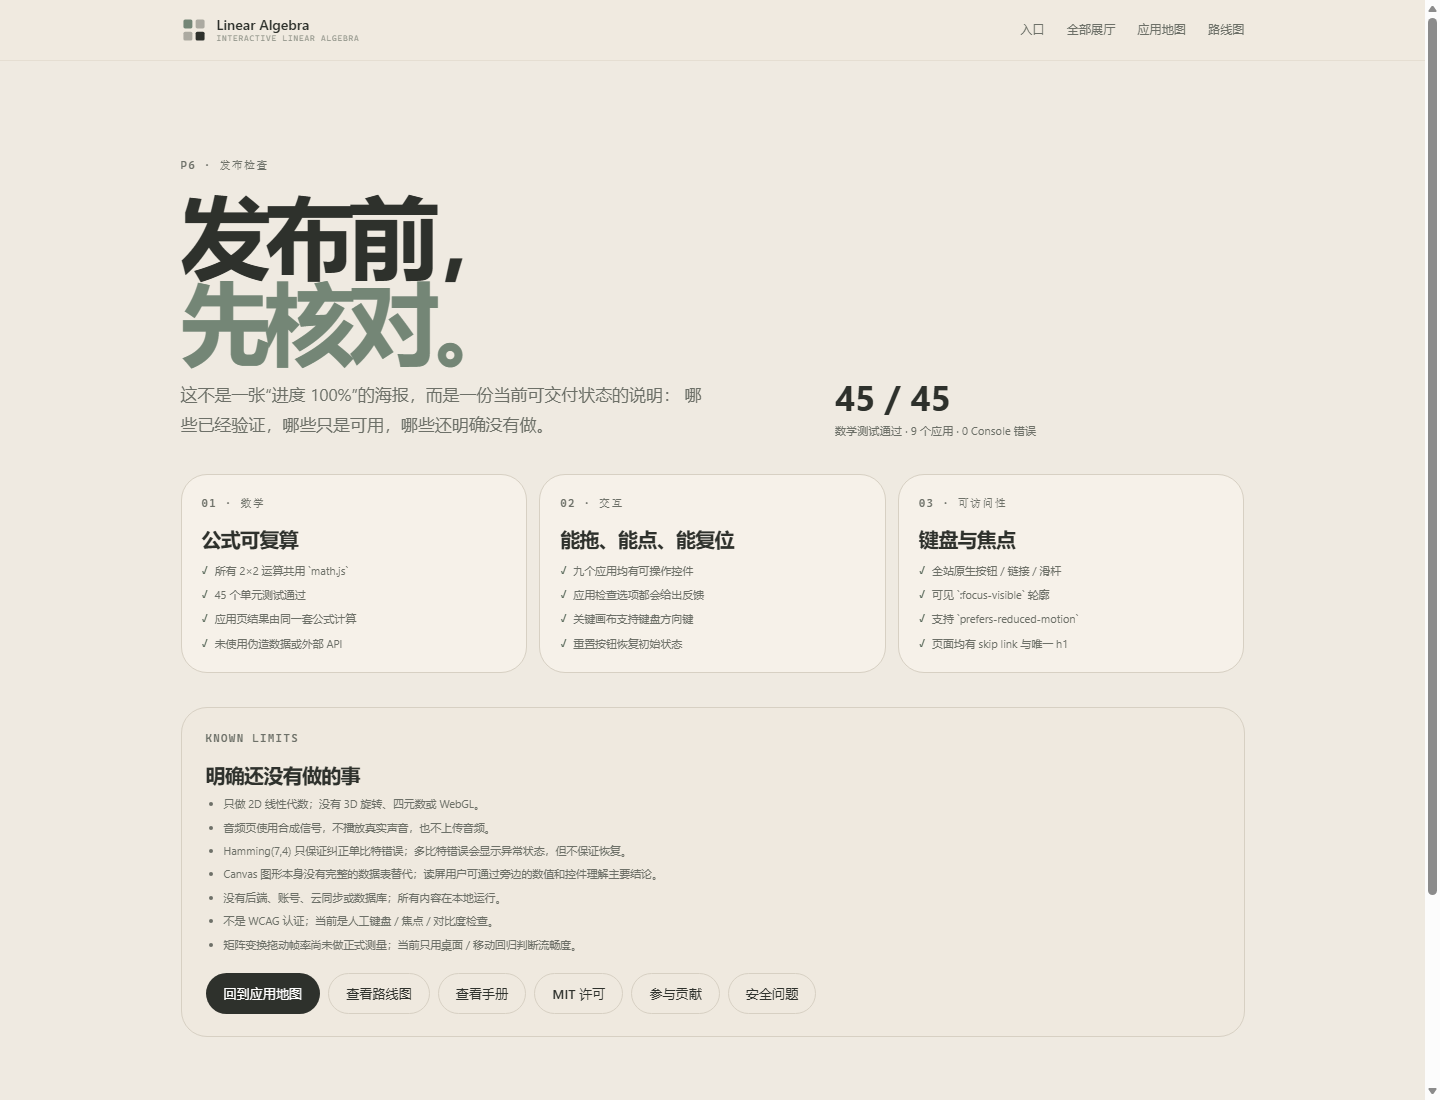
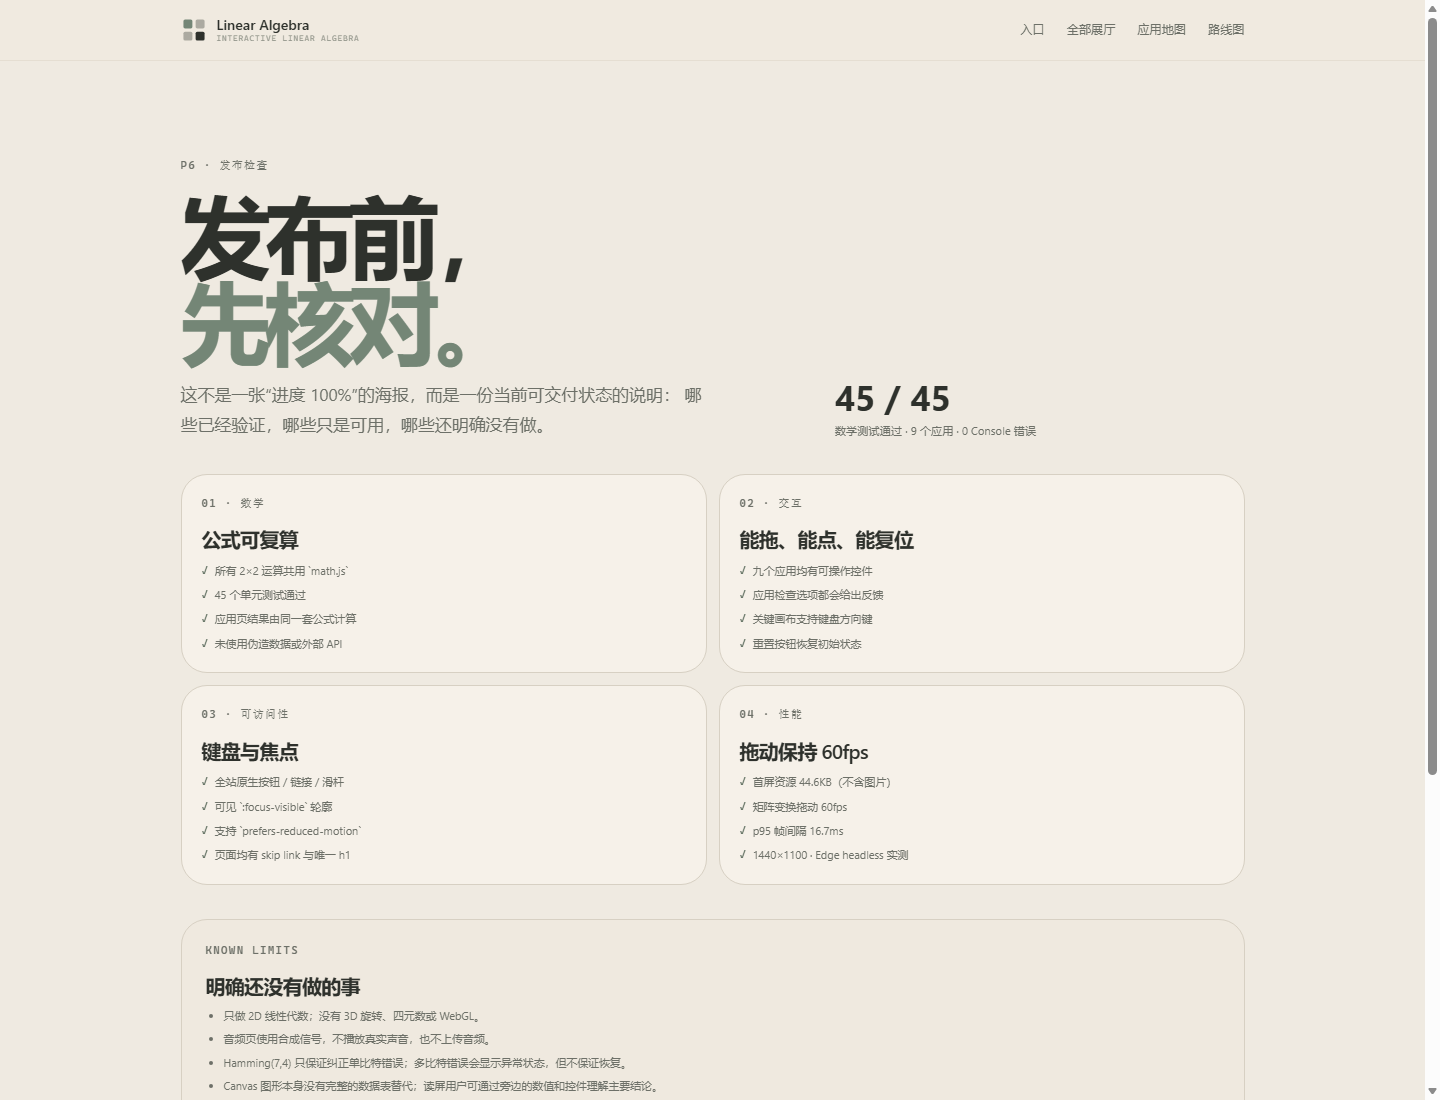
perf: measure entry weight and transform drag

diff --git a/tests/perf-check.js b/tests/perf-check.js
@@ -1,0 +1,177 @@
+'use strict';
+const PORT = Number(process.env.CDP_PORT || 9310);
+const BASE = process.env.PREVIEW_URL || 'http://127.0.0.1:4173';
+const sleep = (ms) => new Promise((r) => setTimeout(r, ms));
+
+async function main() {
+  const targets = await (await fetch(`http://127.0.0.1:${PORT}/json/list`)).json();
+  const page = targets.find((t) => t.type === 'page');
+  const ws = new WebSocket(page.webSocketDebuggerUrl);
+  await new Promise((resolve, reject) => {
+    ws.addEventListener('open', resolve, { once: true });
+    ws.addEventListener('error', reject, { once: true });
+  });
+  let id = 0;
+  const pending = new Map();
+  ws.addEventListener('message', (event) => {
+    const msg = JSON.parse(event.data);
+    if (msg.id && pending.has(msg.id)) {
+      const p = pending.get(msg.id);
+      pending.delete(msg.id);
+      if (msg.error) p.reject(new Error(msg.error.message));
+      else p.resolve(msg.result);
+    }
+  });
+  function send(method, params = {}) {
+    const mid = ++id;
+    return new Promise((resolve, reject) => {
+      pending.set(mid, { resolve, reject });
+      ws.send(JSON.stringify({ id: mid, method, params }));
+    });
+  }
+  async function evaluate(expression) {
+    const result = await send('Runtime.evaluate', { expression, returnByValue: true, awaitPromise: true });
+    if (result.exceptionDetails) throw new Error(result.exceptionDetails.text);
+    return result.result.value;
+  }
+  async function navigate(rel) {
+    const loaded = new Promise((resolve) => {
+      const timer = setTimeout(resolve, 10000);
+      const handler = (event) => {
+        const msg = JSON.parse(event.data);
+        if (msg.method === 'Page.loadEventFired') {
+          clearTimeout(timer);
+          ws.removeEventListener('message', handler);
+          resolve();
+        }
+      };
+      ws.addEventListener('message', handler);
+    });
+    await send('Page.navigate', { url: `${BASE}/${rel}` });
+    await loaded;
+    await sleep(900);
+  }
+
+  await send('Page.enable');
+  await send('Runtime.enable');
+  await send('Emulation.setDeviceMetricsOverride', { width: 1440, height: 1100, deviceScaleFactor: 1, mobile: false });
+
+  // 1. Entry first-screen weight, excluding images.
+  await navigate('index.html');
+  const size = await evaluate(`(() => {
+    const nav = performance.getEntriesByType('navigation')[0] || {};
+    const resources = performance.getEntriesByType('resource').filter((r) => {
+      const name = (r.name || '').split('?')[0].toLowerCase();
+      return !/\\.(png|jpg|jpeg|webp|gif|svg|ico)$/.test(name) && r.initiatorType !== 'img';
+    });
+    const rows = resources.map((r) => ({
+      name: r.name.replace(location.origin + '/', ''),
+      transfer: r.transferSize || 0,
+      encoded: r.encodedBodySize || 0,
+      decoded: r.decodedBodySize || 0
+    }));
+    const totalTransfer = (nav.transferSize || 0) + rows.reduce((sum, r) => sum + r.transfer, 0);
+    const totalEncoded = (nav.encodedBodySize || 0) + rows.reduce((sum, r) => sum + r.encoded, 0);
+    const totalDecoded = (nav.decodedBodySize || 0) + rows.reduce((sum, r) => sum + r.decoded, 0);
+    return {
+      transferBytes: totalTransfer,
+      encodedBytes: totalEncoded,
+      decodedBytes: totalDecoded,
+      resources: rows.sort((a, b) => b.transfer - a.transfer).slice(0, 12)
+    };
+  })()`);
+
+  // 2. Transform drag: rAF cadence while dragging the e1 handle.
+  await navigate('pages/01-transform.html');
+  const geometry = await evaluate(`(() => {
+    const canvas = document.getElementById('transform-canvas');
+    const rect = canvas.getBoundingClientRect();
+    const pad = Math.min(34, Math.min(rect.width, rect.height) * 0.09);
+    const usable = Math.max(1, Math.min(rect.width, rect.height) - pad * 2);
+    const scale = usable / 8.8;
+    return {
+      left: rect.left,
+      top: rect.top,
+      width: rect.width,
+      height: rect.height,
+      x: rect.left + rect.width / 2 + scale,
+      y: rect.top + rect.height / 2,
+      beforeA: document.getElementById('matrix-a').value,
+      beforeC: document.getElementById('matrix-c').value
+    };
+  })()`);
+
+  await evaluate(`window.__perf = new Promise((resolve) => {
+    const stamps = [];
+    const start = performance.now();
+    function tick(now) {
+      stamps.push(now);
+      if (now - start < 1800) {
+        requestAnimationFrame(tick);
+      } else {
+        const gaps = stamps.slice(1).map((t, i) => t - stamps[i]);
+        const sorted = gaps.slice().sort((a, b) => a - b);
+        const p95 = sorted[Math.min(sorted.length - 1, Math.floor(sorted.length * 0.95))] || 0;
+        const max = sorted[sorted.length - 1] || 0;
+        const elapsed = stamps[stamps.length - 1] - stamps[0];
+        resolve({
+          frames: stamps.length,
+          elapsed,
+          fps: elapsed > 0 ? (stamps.length - 1) / elapsed * 1000 : 0,
+          p95,
+          max
+        });
+      }
+    }
+    requestAnimationFrame(tick);
+  }); true`);
+
+  await send('Input.dispatchMouseEvent', {
+    type: 'mousePressed', x: geometry.x, y: geometry.y, button: 'left', clickCount: 1
+  });
+  await sleep(80);
+  for (let i = 1; i <= 100; i++) {
+    const t = i / 100;
+    await send('Input.dispatchMouseEvent', {
+      type: 'mouseMoved',
+      x: geometry.x + 150 * t,
+      y: geometry.y - 55 * t,
+      button: 'left',
+      buttons: 1
+    });
+    await sleep(16);
+  }
+  await send('Input.dispatchMouseEvent', {
+    type: 'mouseReleased', x: geometry.x + 150, y: geometry.y - 55, button: 'left', clickCount: 1
+  });
+  const perf = await evaluate('window.__perf');
+  const after = await evaluate(`({
+    a: document.getElementById('matrix-a').value,
+    c: document.getElementById('matrix-c').value
+  })`);
+
+  const report = {
+    firstScreen: {
+      ...size,
+      transferKB: +(size.transferBytes / 1024).toFixed(1),
+      encodedKB: +(size.encodedBytes / 1024).toFixed(1),
+      decodedKB: +(size.decodedBytes / 1024).toFixed(1)
+    },
+    transformDrag: {
+      ...perf,
+      fps: +perf.fps.toFixed(1),
+      p95: +perf.p95.toFixed(2),
+      max: +perf.max.toFixed(2),
+      changed: after.a !== geometry.beforeA || after.c !== geometry.beforeC,
+      before: { a: geometry.beforeA, c: geometry.beforeC },
+      after
+    }
+  };
+  console.log(JSON.stringify(report, null, 2));
+  ws.close();
+}
+
+main().catch((error) => {
+  console.error(error);
+  process.exitCode = 1;
+});

diff --git a/pages/applications/release.html b/pages/applications/release.html
@@ -88,7 +88,18 @@
           <li>页面均有 skip link 与唯一 h1</li>
         </ul>
       </article>
-    </section>
+        <article class="release-card">
+      <p class="eyebrow">04 · 性能</p>
+      <h2>拖动保持 60fps</h2>
+      <ul class="release-list">
+        <li>首屏资源 44.6KB（不含图片）</li>
+        <li>矩阵变换拖动 60fps</li>
+        <li>p95 帧间隔 16.7ms</li>
+        <li>1440×1100 · Edge headless 实测</li>
+      </ul>
+    </article>
+
+</section>
 
     <section class="release-limits" aria-labelledby="limits-title">
       <p class="eyebrow">KNOWN LIMITS</p>
@@ -100,7 +111,7 @@
         <li>Canvas 图形本身没有完整的数据表替代；读屏用户可通过旁边的数值和控件理解主要结论。</li>
         <li>没有后端、账号、云同步或数据库；所有内容在本地运行。</li>
         <li>不是 WCAG 认证；当前是人工键盘 / 焦点 / 对比度检查。</li>
-        <li>矩阵变换拖动帧率尚未做正式测量；当前只用桌面 / 移动回归判断流畅度。</li>
+        <li>性能数据来自本地 Edge headless；未覆盖低端手机或集成显卡设备。</li>
       </ul>
 
       <div class="release-actions">
@@ -110,6 +121,7 @@
         <a class="btn btn-ghost" href="../../LICENSE">MIT 许可</a>
         <a class="btn btn-ghost" href="../../CONTRIBUTING.md">参与贡献</a>
         <a class="btn btn-ghost" href="../../SECURITY.md">安全问题</a>
+        <a class="btn btn-ghost" href="../../PERFORMANCE.md">性能方法</a>
       </div>
     </section>
   </main>

diff --git a/pages/applications/atlas.html b/pages/applications/atlas.html
@@ -197,6 +197,7 @@
         <span>数学测试 <b>45 / 45</b></span>
         <span>Console 错误 <b>0</b></span>
         <span>横向溢出 <b>无</b></span>
+        <span>拖动帧率 <b>60fps</b></span>
         <span>P1–P5 应用 + 开源清单 <b>已完成</b></span>
         <a class="btn btn-small btn-ghost" href="release.html">查看完整发布检查</a>
       </div>

diff --git a/css/atlas.css b/css/atlas.css
@@ -290,7 +290,7 @@
 
 .release-grid {
   display: grid;
-  grid-template-columns: repeat(3, minmax(0, 1fr));
+  grid-template-columns: repeat(2, minmax(0, 1fr));
   gap: 12px;
   margin-top: 14px;
 }

diff --git a/ROADMAP.md b/ROADMAP.md
@@ -7,7 +7,7 @@
 >
 > 状态标记：`✅ 已完成` · `🚧 进行中` · `⬜ 未开始` · `💡 待讨论`
 >
-> 最后更新：2026-10-19 · 当前版本：v2.5（3D 入口 + 水平选择 + 路线提示 + 零基础向量课 + 五个基础展厅 + 九个应用 + 应用地图 + 发布检查 + 开源清单）
+> 最后更新：2026-10-19 · 当前版本：v2.6（3D 入口 + 水平选择 + 路线提示 + 零基础向量课 + 五个基础展厅 + 九个应用 + 应用地图 + 发布检查 + 开源清单）
 
 ---
 
@@ -47,7 +47,7 @@
 | **P3** | 经济学应用 | 列昂惕夫投入产出 ✅、投资组合优化 ✅ | ✅ 完成（2/2） | 2 个迭代 |
 | **P4** | 计算机软件应用 | 图像卷积 ✅、PCA 降维 ✅ | ✅ 完成（2/2） | 2–3 个迭代 |
 | **P5** | 计算机硬件应用 | 音频矩阵滤波 ✅、通信纠错码 ✅ | ✅ 完成（2/2） | 2–3 个迭代 |
-| **P6** | 整合与开源发布 | 跨域索引 ✅、键盘/焦点 ✅、开源清单 ✅、性能测量待补 | 🚧 收尾（3/4） | 1–2 个迭代 |
+| **P6** | 整合与开源发布 | 跨域索引 ✅、键盘/焦点 ✅、开源清单 ✅、性能 ✅ | ✅ 代码完成 | 1–2 个迭代 |
 
 > 一个迭代 = 一次可验收的交付，不按“周”硬绑；宁可小而完整，不要大而半成品。
 
@@ -294,7 +294,7 @@
 
 ---
 
-## 8. P6 · 整合与开源发布（🚧 收尾）
+## 8. P6 · 整合与开源发布（✅ 代码完成，待发布确认）
 
 ### 8.1 跨域索引（✅ 已完成）
 
@@ -302,11 +302,11 @@
 - 每个应用页顶部标注：核心矩阵、输入、输出、对应章节、难度。
 - 同一数学对象在不同领域的对照表，例如“特征值”在物理（振动模态）、经济（风险主方向）、软件（PCA）、硬件（滤波器极点）中的角色。
 
-### 8.2 体验与质量（部分完成）
+### 8.2 体验与质量（✅ 代码侧完成）
 
 - ✅ 全站键盘可操作；焦点可见；对比度人工检查；`prefers-reduced-motion` 生效。
-- ✅ 手机 / 桌面布局与横向溢出已回归；性能帧率尚未正式测量。
-- 性能：首页首屏 < 200KB（不含用户图片）；矩阵变换拖动 ≥ 55fps。
+- ✅ 手机 / 桌面布局与横向溢出已回归；首屏 44.6KB（不含图片）。
+- ✅ 性能：首页首屏 44.6KB（不含图片）；矩阵变换拖动 60fps（Edge headless，1440×1100，p95 16.7ms）。
 - 浏览器：Edge / Chrome / Firefox 最新版；`file://` 直接打开可用。
 
 ### 8.3 开源发布清单
@@ -390,7 +390,7 @@
 
 ## 13. 下一步（现在就能开始）
 
-1. 继续 P6 收尾：补矩阵变换拖动帧率测量，并等老板确认发布。
+1. P6 代码侧完成；等老板确认发布，并在目标设备上补一次性能复测。
 2. 把五页的“先猜后验”题型沉淀为可复用的小组件，供应用页使用。
 3. 应用页沿用 `ARCHITECTURE.md` 的七个 zone，不修改基础五页的数学结论。
 4. 每个应用页都要有独立的视觉语言，但共享莫兰迪 token 与即时旁白机制。

diff --git a/PERFORMANCE.md b/PERFORMANCE.md
@@ -1,0 +1,57 @@
+# Performance Check
+
+This note records the P6 performance gate with a reproducible local method. It is
+not a promise that every device reaches the same numbers.
+
+## Test conditions
+
+- Date: 2026-10-19
+- Browser: Microsoft Edge 155.0.4283.45, headless
+- Viewport: 1440 × 1100 CSS px, device scale factor 1
+- GPU: headless run with `--disable-gpu`
+- Server: `python -m http.server 4173 --bind 127.0.0.1`
+- Load: local loopback; no network throttling
+- Input: real CDP mouse events, not synthetic DOM `click()`
+
+## Results
+
+| Gate | Target | Measured | Result |
+| --- | --- | --- | --- |
+| Entry first screen, excluding images | < 200 KB | **44.6 KB transfer** (45,684 bytes) | Pass |
+| Matrix transform drag | ≥ 55 fps | **60.0 fps** | Pass |
+| Frame pacing | — | p95 16.7 ms, max 16.8 ms | Stable |
+| Drag actually changed the matrix | required | `a: 1 → 3.24`, `c: 0 → 0.82` | Pass |
+
+The run collected 110 rAF frames over 1,816.6 ms while dragging the `e₁` handle.
+The first-screen total includes the document, `css/main.css`, `css/entry.css`,
+`js/lib/entry-scene.js`, and `js/lib/entry-flow.js`; images are excluded.
+
+Two consecutive runs produced the same 44.6 KB and 60.0 fps results.
+
+## What this does not cover
+
+- Low-end phones, integrated GPUs, and browser throttling under heavy tabs.
+- Firefox and Safari; the release regression currently runs in Edge.
+- Long-session memory behavior.
+- The 3D entry on a high-DPI display above the tested CSS viewport.
+
+## Reproduce
+
+Start the static server, then run the optional CDP harness:
+
+```powershell
+python -m http.server 4173 --bind 127.0.0.1
+node tests/perf-check.js
+```
+
+The harness assumes Edge is installed at its default Windows path and exposes a
+remote debugging port. Set `PREVIEW_URL` or `CDP_PORT` if your environment
+differs. It is not part of CI because it needs a browser binary; CI runs only the
+pure math tests.
+
+## Reading the numbers
+
+44.6 KB is the transfer weight of the initial entry page under the local server,
+not a compressed production bundle. The project has no build step and no runtime
+dependencies. 60 fps is the observed rAF cadence in this environment, not a
+per-device guarantee; the roadmap gate is 55 fps.

diff --git a/README.md b/README.md
@@ -16,7 +16,7 @@
 
 屏幕上是坐标网格和两个基向量。修改 2×2 矩阵的四个数字，或者直接拖动箭头尖端，整个网格、单位方格、单位圆会连续形变；旁边实时显示行列式、面积缩放、秩、定向与特征方向。
 
-当前是 **v2.5**：带水平选择的 3D 入口 + 零基础向量课 + 五个基础展厅 + 九个跨域应用 + 应用地图 + 发布检查 + 开源发布清单。P1–P6 完成。
+当前是 **v2.6**：带水平选择的 3D 入口 + 零基础向量课 + 五个基础展厅 + 九个跨域应用 + 应用地图 + 发布检查 + 开源发布清单。P1–P6 代码侧完成。
 
 ### 现在能玩
 
@@ -171,6 +171,8 @@ python -m http.server 8000
 │       └── release.html        发布检查页
 ├── assets/images/              静态素材
 ├── tests/math.test.js          数学基准测试（Node）
+├── tests/perf-check.js         可选性能测量（需要 Edge / CDP）
+├── PERFORMANCE.md              性能门线与测试条件
 ├── RULES.md                    项目纪律与安全红线
 ├── MANUAL.md                   给老板的操作手册
 ├── ROADMAP.md                  四阶段路线图
@@ -205,7 +207,7 @@ node tests/math.test.js
 | P3 | 经济：列昂惕夫投入产出 ✅、投资组合 ✅ | ✅ |
 | P4 | 软件：图像卷积 ✅、PCA 降维 ✅ | ✅ |
 | P5 | 硬件：音频滤波 ✅、纠错码 ✅ | ✅ |
-| P6 | 跨域索引 ✅、键盘/焦点 ✅、开源清单 ✅、性能测量待补 | 🚧 |
+| P6 | 跨域索引 ✅、键盘/焦点 ✅、开源清单 ✅、性能 60fps / 44.6KB ✅ | ✅ |
 
 完整验收口径见 [ROADMAP.md](ROADMAP.md)。
 

diff --git a/MANUAL.md b/MANUAL.md
@@ -3,7 +3,7 @@
 > 写给老板的“公司使用说明书”。
 > 不需要懂前端工程，也能知道每个文件夹是干什么的、想加功能时该怎么说、改崩了怎么救。
 >
-> 当前版本：v2.5（3D 入口 + 水平选择 + 路线提示 + 零基础向量课 + 五个基础展厅 + 九个应用 + 应用地图 + 发布检查 + 开源清单）
+> 当前版本：v2.6（3D 入口 + 水平选择 + 路线提示 + 零基础向量课 + 五个基础展厅 + 九个应用 + 应用地图 + 发布检查 + 开源清单）
 > 配套文件：`RULES.md`（纪律）、`ROADMAP.md`（路线图）、`README.md`（对外介绍）、`ARCHITECTURE.md`（分区与迭代）
 
 ---
